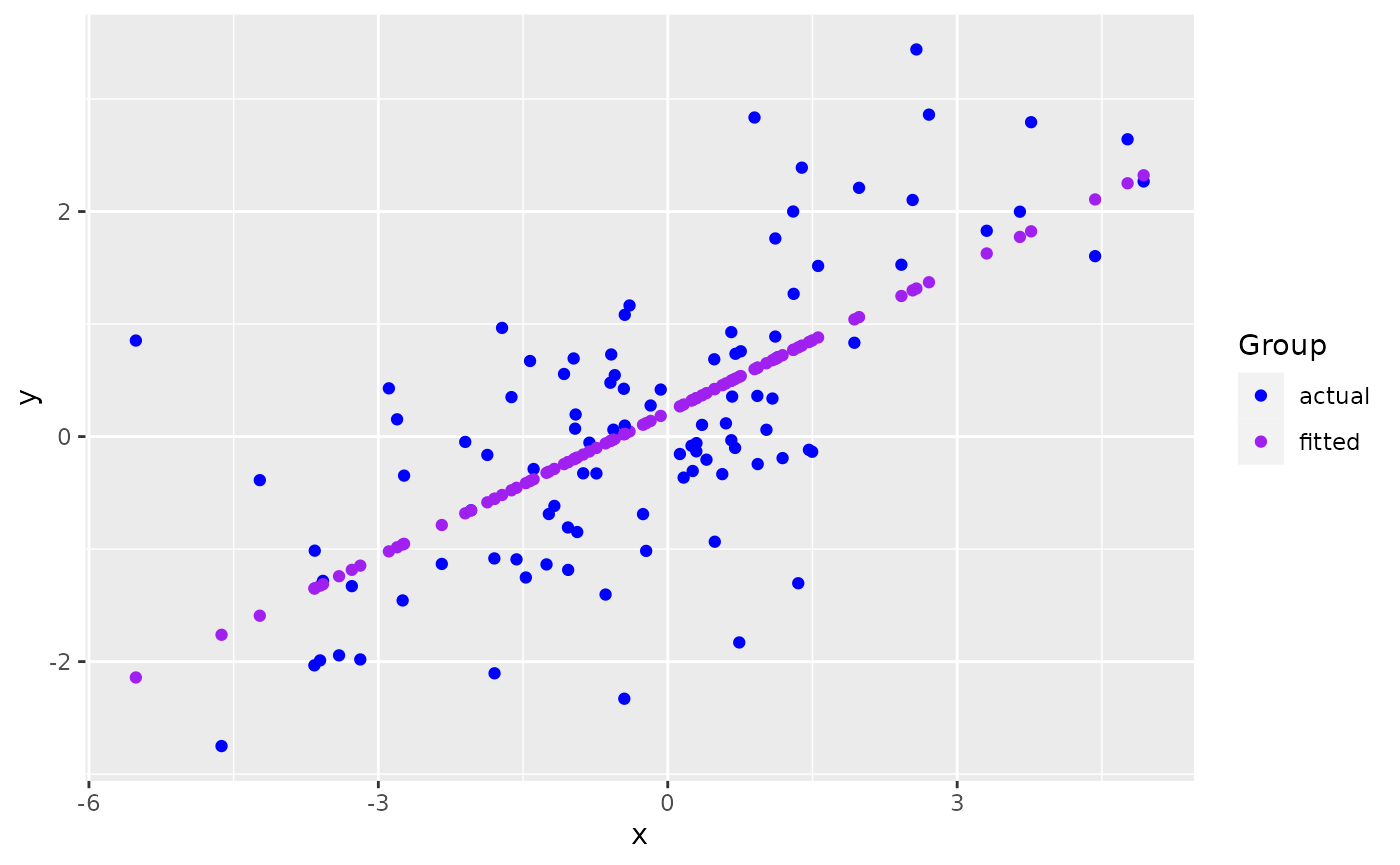
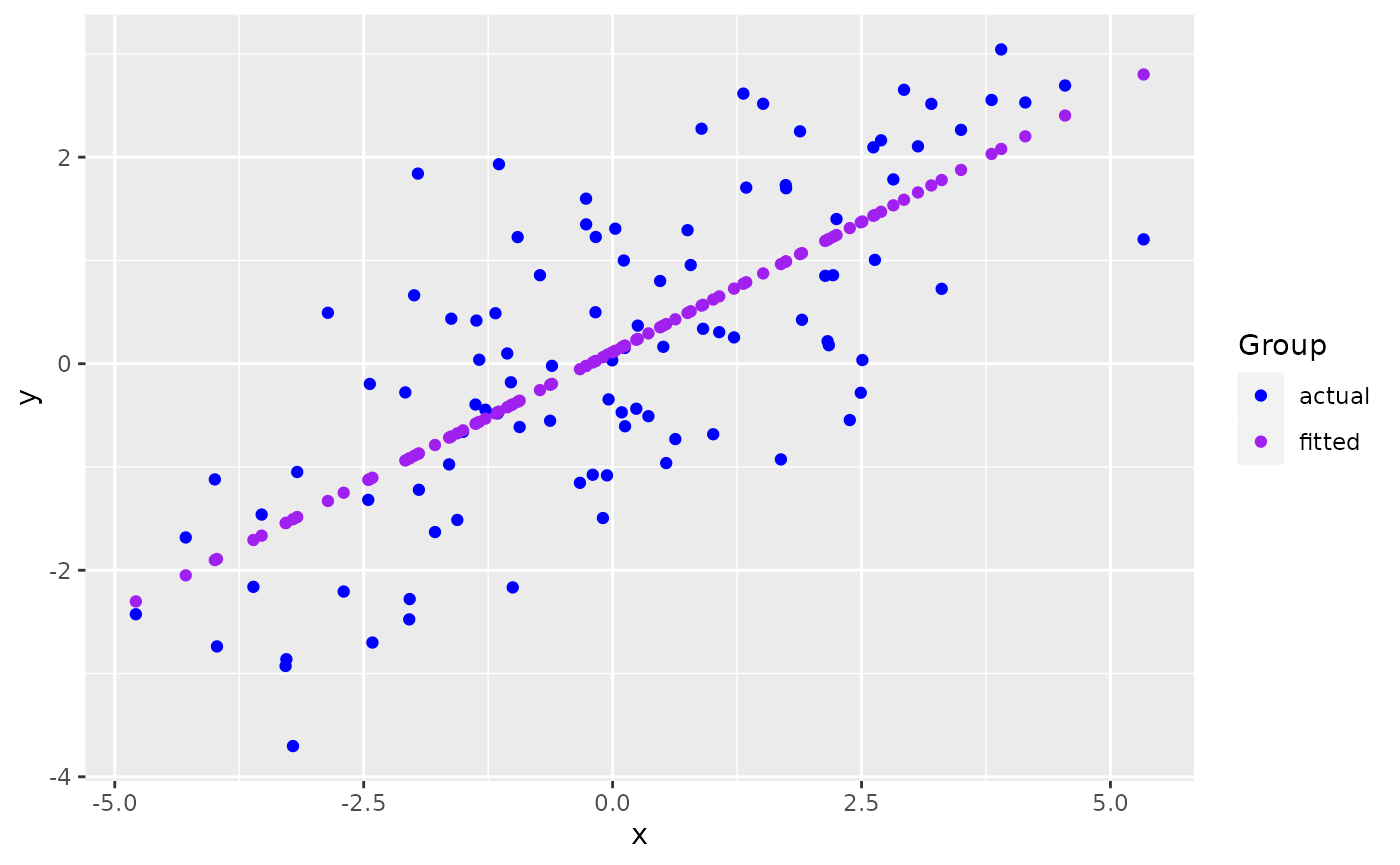
Built site for ggmatplot: 0.1.0.9000@866252d

diff --git a/articles/ggmatplot.html b/articles/ggmatplot.html
@@ -103,7 +103,7 @@
 <span class="va">x</span> <span class="op">&lt;-</span> <span class="fu"><a href="https://rdrr.io/r/base/c.html" class="external-link">c</a></span><span class="op">(</span><span class="fu"><a href="https://rdrr.io/r/stats/Normal.html" class="external-link">rnorm</a></span><span class="op">(</span><span class="fl">100</span>, sd <span class="op">=</span> <span class="fl">2</span><span class="op">)</span><span class="op">)</span>
 
 <span class="fu"><a href="https://rdrr.io/r/utils/head.html" class="external-link">head</a></span><span class="op">(</span><span class="va">x</span><span class="op">)</span>
-<span class="co">#&gt; [1]  1.1145454 -0.9385596 -1.7176782  1.9343735  1.0851984  1.4970175</span>
+<span class="co">#&gt; [1] -0.93365172 -0.04038426 -0.95377893  2.24860017 -0.26675090 -3.21004086</span>
 
 <span class="co"># matrix z</span>
 <span class="va">y</span> <span class="op">&lt;-</span> <span class="va">x</span> <span class="op">*</span> <span class="fl">0.5</span> <span class="op">+</span> <span class="fu"><a href="https://rdrr.io/r/stats/Normal.html" class="external-link">rnorm</a></span><span class="op">(</span><span class="fl">100</span>, sd <span class="op">=</span> <span class="fl">1</span><span class="op">)</span>
@@ -112,13 +112,13 @@
            fitted <span class="op">=</span> <span class="va">fit.y</span><span class="op">)</span>
 
 <span class="fu"><a href="https://rdrr.io/r/utils/head.html" class="external-link">head</a></span><span class="op">(</span><span class="va">z</span><span class="op">)</span>
-<span class="co">#&gt;       actual     fitted</span>
-<span class="co">#&gt; 1  0.8888896  0.6909281</span>
-<span class="co">#&gt; 2 -0.8484086 -0.1862447</span>
-<span class="co">#&gt; 3  0.9658430 -0.5191169</span>
-<span class="co">#&gt; 4  0.8337213  1.0411931</span>
-<span class="co">#&gt; 5  0.3381948  0.6783898</span>
-<span class="co">#&gt; 6 -0.1351160  0.8543362</span></code></pre></div>
+<span class="co">#&gt;       actual      fitted</span>
+<span class="co">#&gt; 1 -0.6133069 -0.35852213</span>
+<span class="co">#&gt; 2 -0.3455349  0.09182116</span>
+<span class="co">#&gt; 3  1.2259737 -0.36866932</span>
+<span class="co">#&gt; 4  1.4009055  1.24581909</span>
+<span class="co">#&gt; 5  1.5980840 -0.02230222</span>
+<span class="co">#&gt; 6 -3.7026726 -1.50617011</span></code></pre></div>
 <p><code>ggmatplot</code> plots vector <code>x</code> against each column of matrix <code>z</code> using the default <code>plot_type = "point"</code>. This will be represented on the resulting plot as two groups, identified using different shapes and colors.</p>
 <div class="sourceCode" id="cb2"><pre class="downlit sourceCode r">
 <code class="sourceCode R"><span class="kw"><a href="https://rdrr.io/r/base/library.html" class="external-link">library</a></span><span class="op">(</span><span class="va"><a href="https://github.com/xuan-liang/ggmatplot" class="external-link">ggmatplot</a></span><span class="op">)</span>
